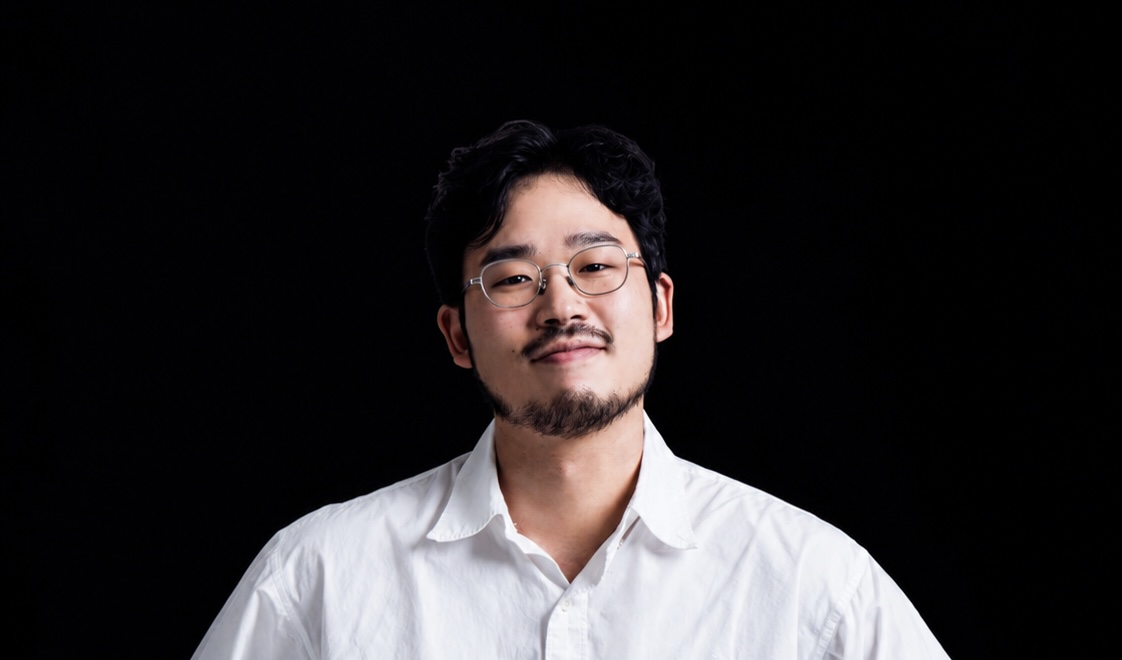
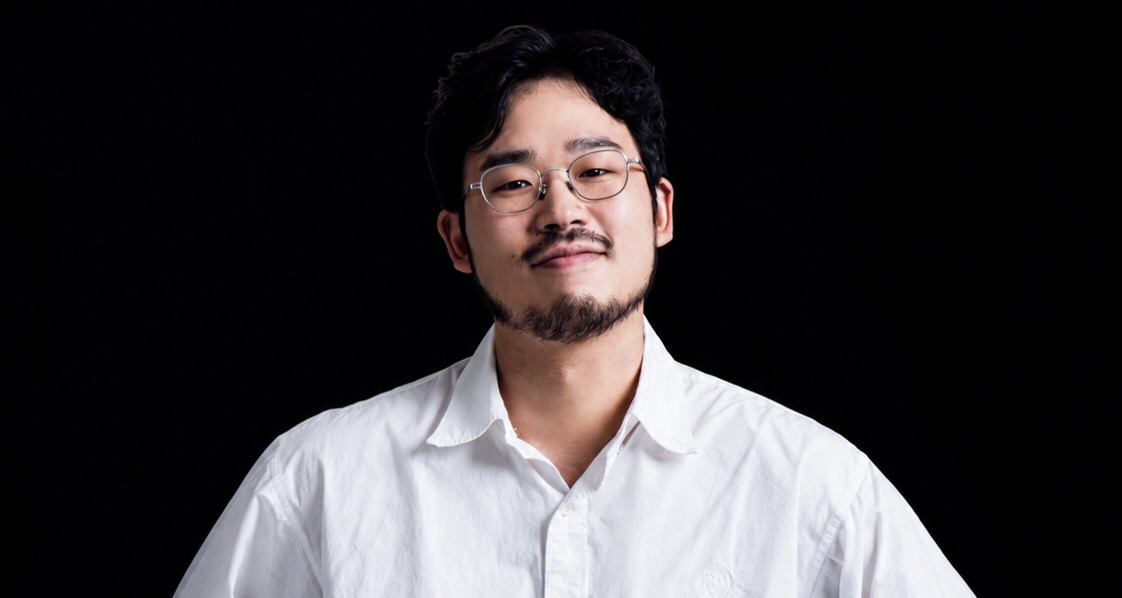
fix firebase event sync

diff --git a/app/page.jsx b/app/page.jsx
@@ -699,7 +699,7 @@ function VenueInfoCards() {
   <img
     src="/icons/metacocl.png"
     alt="메타코미디클럽"
-    className="w-10 h-10 object-contain"
+    className="w-14 h-14 object-contain"
   />
   <div>
     <span className="text-[10px] font-bold text-orange-400">
@@ -789,7 +789,7 @@ function VenueInfoCards() {
     </h4>
   </div>
 </div>
-          <p className="text-[11px] text-neutral-500 dark:text-neutral-400">출연: 김태현, 이제규, 문성준 등 최고의 만담 콘텐츠.</p>
+          <p className="text-[11px] text-neutral-500 dark:text-neutral-400">출연: 김태현, 이제규, 문성준 등 최고의 팟캐스트.</p>
           <div className="pt-1">
             <a 
               href="https://www.youtube.com/@americanjoke0" 
@@ -983,7 +983,9 @@ function Calendar({ events, activeCategory, onCategoryChange, currentDate, setCu
             ‹
           </button>
           <div className="text-center">
-            <h2 className="text-base sm:text-xl font-black text-neutral-900 dark:text-white">{year}년 {month + 1}월</h2>
+            <h2 className="text-base sm:text-xl font-black text-white">
+  {month + 1}월
+</h2>
           </div>
           <button
             onClick={handleNextMonth}
@@ -995,7 +997,7 @@ function Calendar({ events, activeCategory, onCategoryChange, currentDate, setCu
 
         <div className="grid grid-cols-7 mb-1.5 text-center">
           {["월", "화", "수", "목", "금", "토", "일"].map((day, index) => (
-            <div key={day} className={`font-extrabold text-[11px] py-1 ${index === 5 ? "text-blue-500" : index === 6 ? "text-red-500" : "text-neutral-400"}`}>
+            <div key={day} className={`font-extrabold text-[15px] py-1 ${index === 5 ? "text-blue-500" : index === 6 ? "text-red-500" : "text-neutral-400"}`}>
               {day}
             </div>
           ))}
@@ -1008,6 +1010,13 @@ function Calendar({ events, activeCategory, onCategoryChange, currentDate, setCu
 
           {days.map((day) => {
             const dayEvents = eventsByDay[day] || [];
+
+            
+
+            const uniqueDayEvents = dayEvents.filter(
+  (evt, index, self) =>
+    index === self.findIndex((e) => e.category === evt.category)
+);
 
             const hasEvents = dayEvents.length > 0;
             const isToday = currentYear === year && currentMonth === month && currentDay === day;
@@ -1035,7 +1044,11 @@ function Calendar({ events, activeCategory, onCategoryChange, currentDate, setCu
                   </div>
 
                   <div className="flex flex-wrap justify-center gap-0 mb-0.5">
-  {dayEvents.map((evt, index) => {
+  {uniqueDayEvents.map((evt, index) => {
+    const uniqueDayEvents = dayEvents.filter(
+  (evt, index, self) =>
+    index === self.findIndex((e) => e.category === evt.category)
+);
   const iconMap = {
     seoul: "/icons/seococl.png",
     meta: "/icons/metacocl.png",
@@ -1058,10 +1071,12 @@ function Calendar({ events, activeCategory, onCategoryChange, currentDate, setCu
           src={icon}
           alt=""
           className={`w-full h-full object-contain ${
-            evt.category === "solo"
-              ? "animate-pulse drop-shadow-[0_0_5px_rgba(250,204,21,0.9)]"
-              : ""
-          }`}
+  evt.category === "solo"
+    ? "animate-pulse drop-shadow-[0_0_5px_rgba(250,204,21,0.9)]"
+    : evt.category === "meta"
+      ? "scale-125"
+      : ""
+}`}
         />
       ) : (
   <span className="text-xs leading-none">
